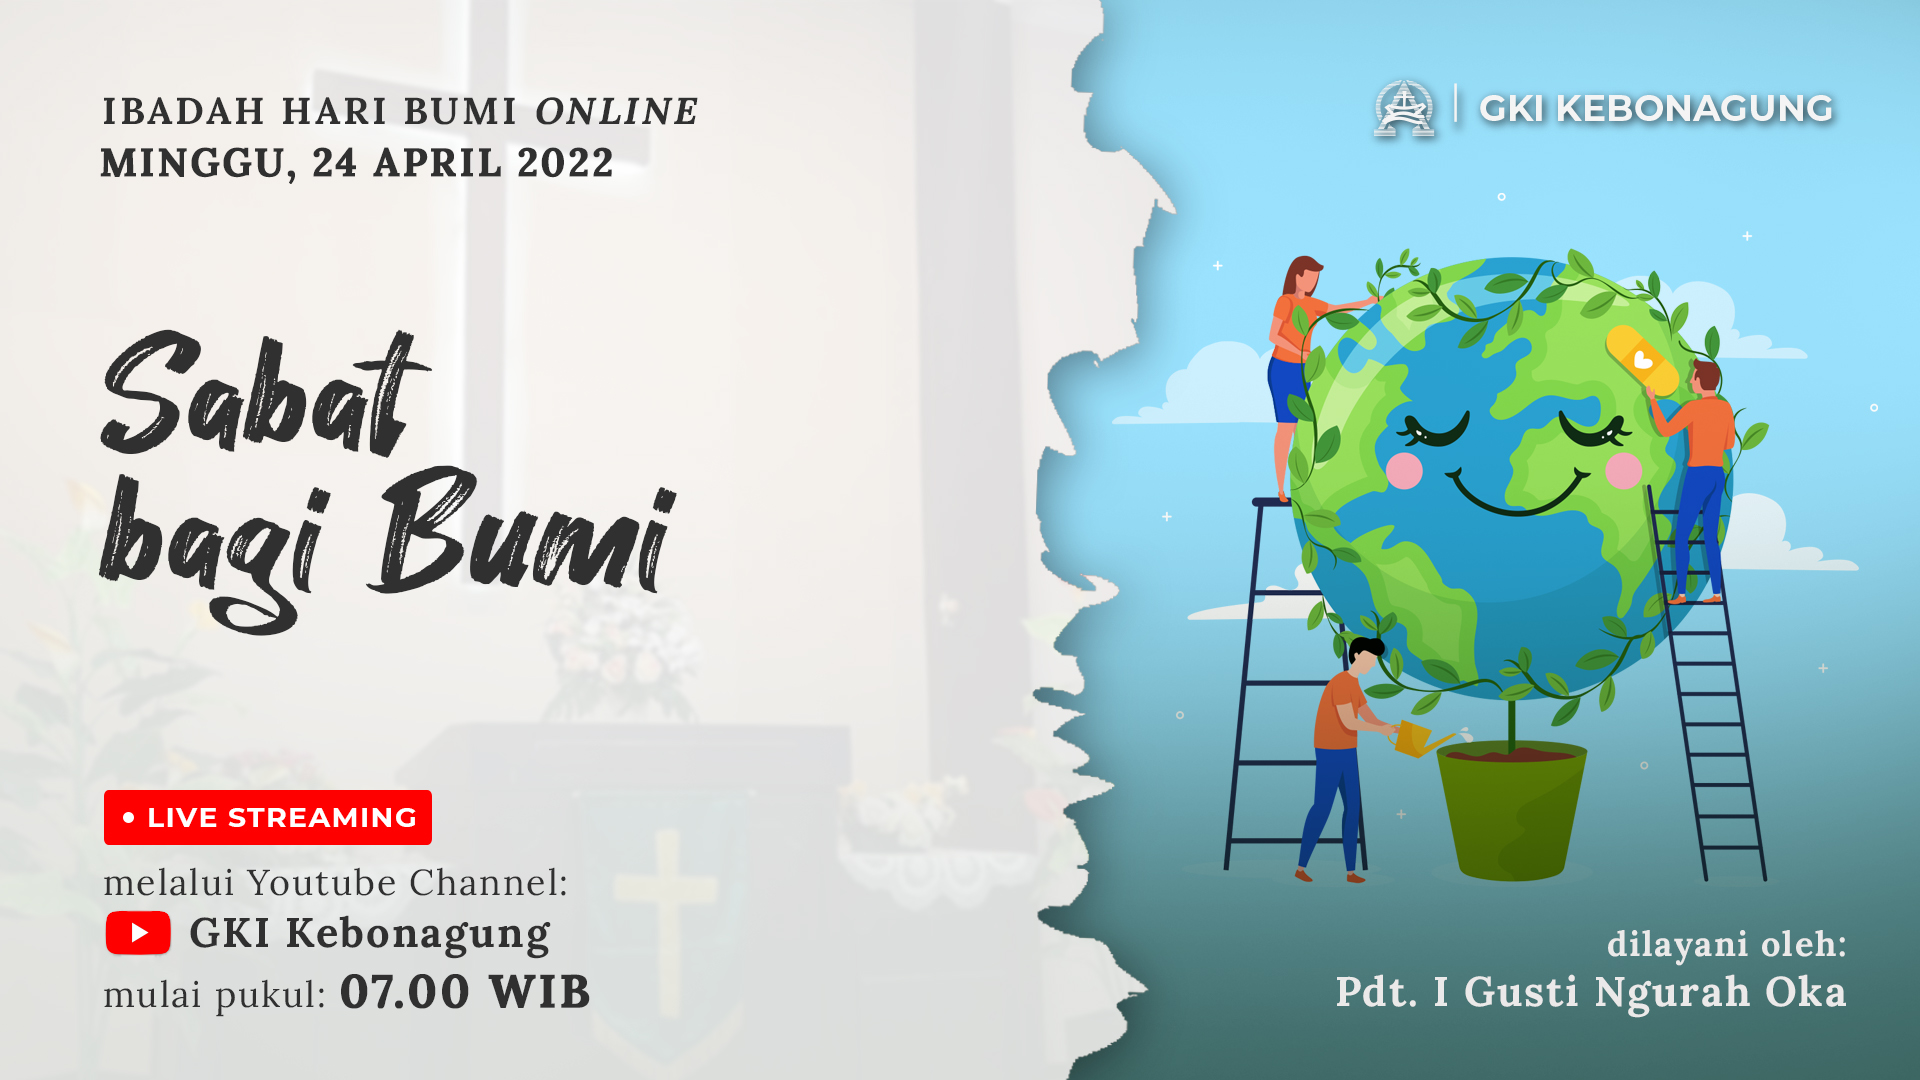
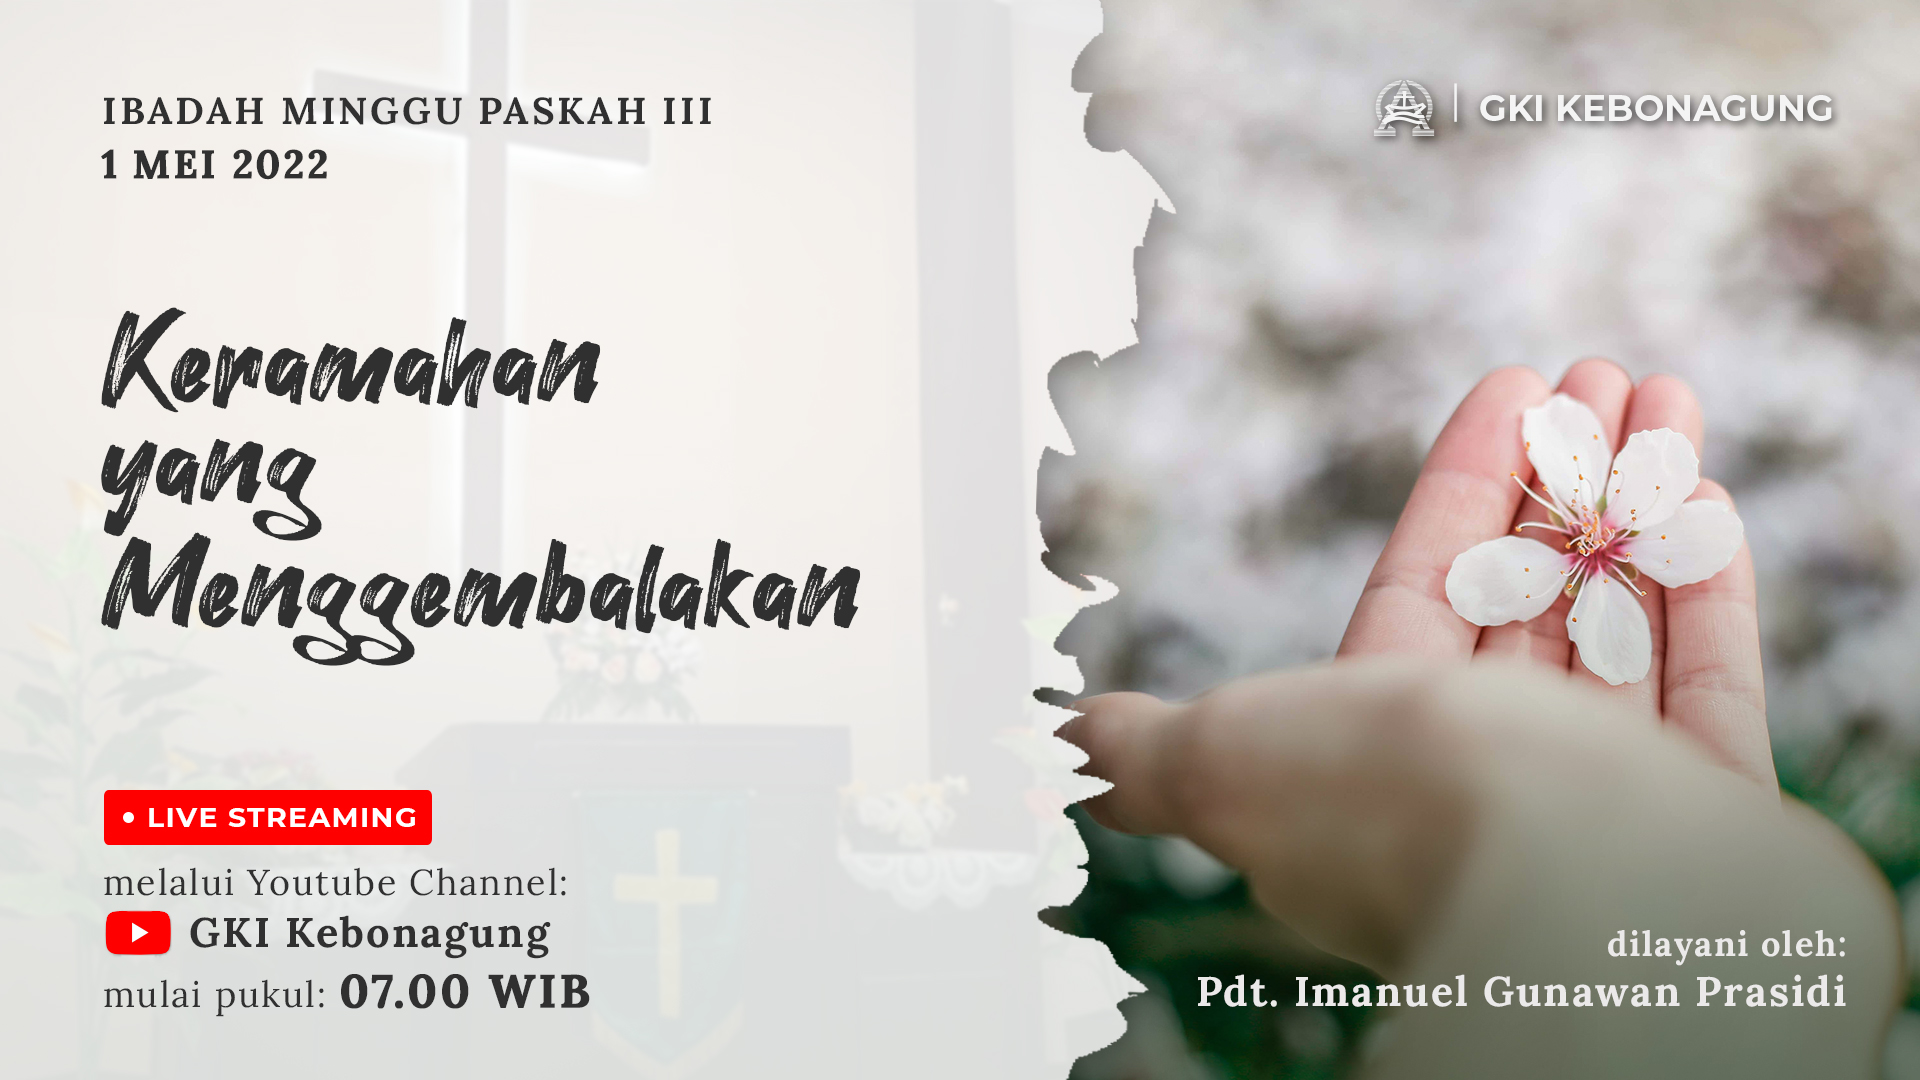
1

diff --git a/application/views/Front/vLandingpage.php b/application/views/Front/vLandingpage.php
@@ -114,18 +114,18 @@
                     <div class="mt-5">
                         <div class="card text-center shadow mx-3">
                             <!-- UBAH -->
-                            <a href="https://youtu.be/8WQm_pCGe0g" target="_blank" class="text-decoration-none">
+                            <a href="https://youtu.be/_5KZAJo15UM" target="_blank" class="text-decoration-none">
                                 <img src="<?= base_url() ?>front/assets/img/umum.jpg" class="card-img-top">
                             </a>
                             <div class="card-body">
-                                <h4 class="card-title">Ibadah Hari Bumi</h4>
+                                <h4 class="card-title">Ibadah Umum</h4>
                                 <!-- UBAH -->
-                                <p class="card-text">"Sabat bagi Bumi"<br>Minggu, 24 April 2022 - 07.00 WIB<br>Pdt. Imanuel Gunawan Prasidi</p>
+                                <p class="card-text">"Keramahan yang Menggembalakan"<br>Minggu, 1 Mei 2022 - 07.00 WIB<br>Pdt. Imanuel Gunawan Prasidi</p>
                             </div>
                             <div class="card-body">
                                 <!-- UBAH -->
                                 <a href="<?= base_url() ?>Fronts/pilihOnsite" class="btn btn-primary mb-2 px-5 mx-1" style="border-radius: 10rem; font-size: 11pt">Onsite</a>
-                                <a href="https://youtu.be/8WQm_pCGe0g" target="_blank" class="btn btn-primary mb-2 px-5 mx-1" style="border-radius: 10rem; font-size: 11pt">Online</a>
+                                <a href="https://youtu.be/_5KZAJo15UM" target="_blank" class="btn btn-primary mb-2 px-5 mx-1" style="border-radius: 10rem; font-size: 11pt">Online</a>
                             </div>
                         </div>
                     </div>
@@ -168,7 +168,7 @@
                         </div>
                     </div>
                 </div>
-                <div class="col-lg-4 text-center">
+                <div class="col-lg-4 text-center d-none">
                     <div class="mt-5">
                         <div class="card text-center shadow mx-3">
                             <!-- UBAH -->

diff --git a/application/controllers/Admin.php b/application/controllers/Admin.php
@@ -34,25 +34,37 @@ class Admin extends CI_Controller
             $totalPerempuan = 0;
 
             $chart = [];
-            foreach ($kehadiranTotal as $row){
+            foreach ($kehadiranTotal as $row) {
                 $chart['label'][] = tgl_indo($row->tanggal);
-                $chart['data'][] = (int)$row->jumlah;
+                if (empty($row->jumlah)){
+                    $chart['data'][] = 0;
+                }else{
+                    $chart['data'][] = (int)$row->jumlah;
+                }
                 $total += (int)$row->jumlah;
             }
 
-            foreach ($kehadiranLakiLaki as $row){
-                $chart['data2'][] = (int)$row->jumlah;
-                $totalLakiLaki += (int)$row->jumlah; 
+            foreach ($kehadiranLakiLaki as $row) {
+                if (empty($row->jumlah)){
+                    $chart['data2'][] = 0;
+                }else{
+                    $chart['data2'][] = (int)$row->jumlah;
+                }
+                $totalLakiLaki += (int)$row->jumlah;
             }
 
-            foreach ($kehadiranPerempuan as $row){
-                $chart['data3'][] = (int)$row->jumlah;
-                $totalPerempuan += (int)$row->jumlah; 
+            foreach ($kehadiranPerempuan as $row) {
+                if (empty($row->jumlah)){
+                    $chart['data3'][] = 0;
+                }else{
+                    $chart['data3'][] = (int)$row->jumlah;
+                }
+                $totalPerempuan += (int)$row->jumlah;
             }
-            
-            $data['avgLakiLaki'] = $totalLakiLaki/count($kehadiranLakiLaki);
-            $data['avgPerempuan'] = $totalPerempuan/count($kehadiranPerempuan);
-            $data['avgKehadiran'] = $total/count($kehadiranTotal);
+
+            $data['avgLakiLaki'] = $totalLakiLaki / count($kehadiranLakiLaki);
+            $data['avgPerempuan'] = $totalPerempuan / count($kehadiranPerempuan);
+            $data['avgKehadiran'] = $total / count($kehadiranTotal);
 
             $data['kehadiran'] = json_encode($chart);
 
